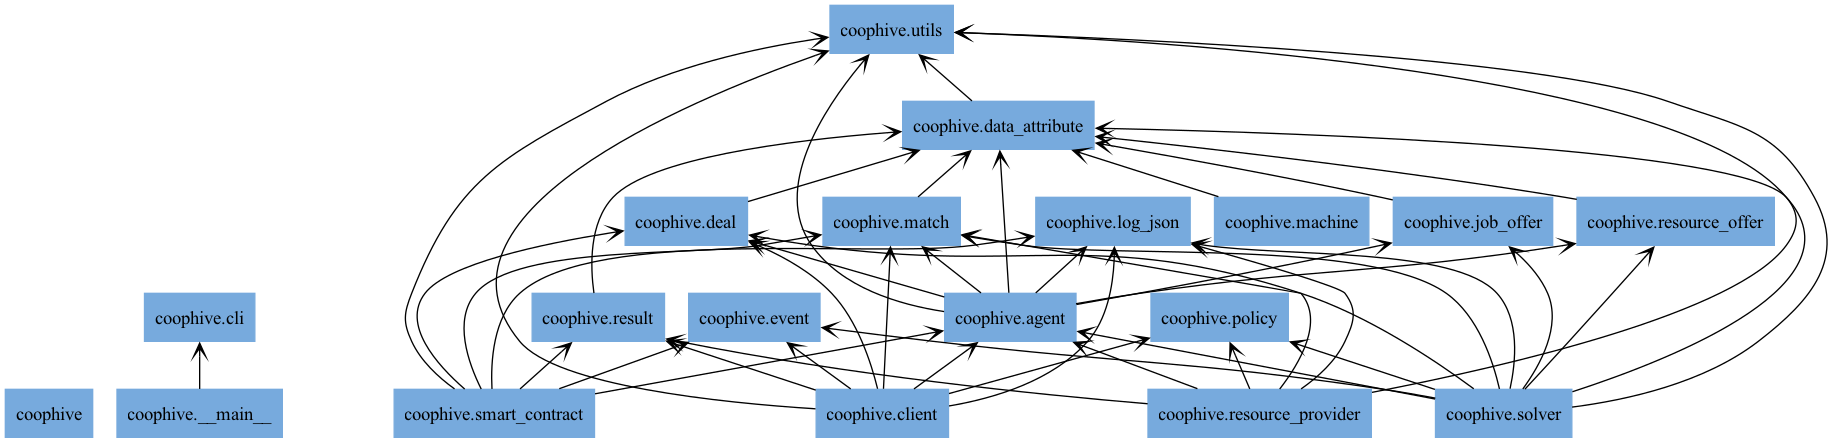
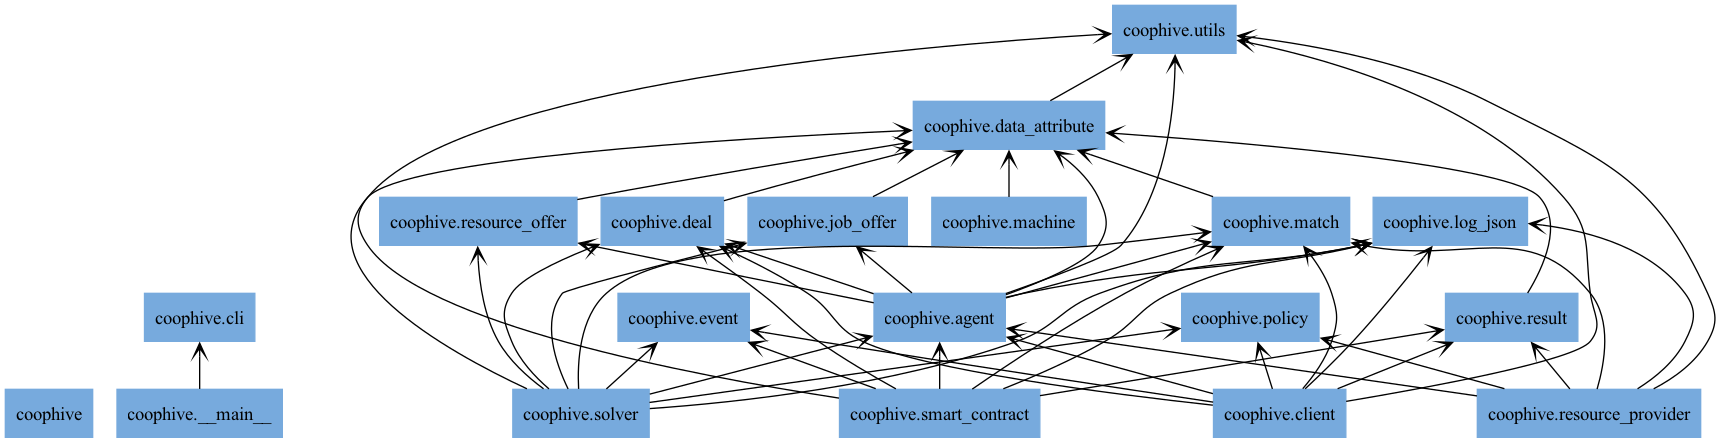
chore: utils refacto

diff --git a/coophive/solver.py b/coophive/solver.py
@@ -12,7 +12,15 @@ from coophive.log_json import log_json
 from coophive.match import Match
 from coophive.policy import Policy
 from coophive.resource_offer import ResourceOffer
-from coophive.utils import extra_necessary_match_data
+
+extra_necessary_match_data = {
+    "client_deposit": 5,
+    "timeout": 10,
+    "timeout_deposit": 3,
+    "cheating_collateral_multiplier": 50,
+    "price_per_instruction": 1,
+    "verification_method": "random",
+}
 
 
 class Solver(Agent):

diff --git a/coophive/utils.py b/coophive/utils.py
@@ -13,16 +13,6 @@ class Tx:
     value: float  # [wei]
 
 
-extra_necessary_match_data = {
-    "client_deposit": 5,
-    "timeout": 10,
-    "timeout_deposit": 3,
-    "cheating_collateral_multiplier": 50,
-    "price_per_instruction": 1,
-    "verification_method": "random",
-}
-
-
 def hash_dict(dict) -> str:
     """Generate a SHA-256 hash of a dictionary.
 
